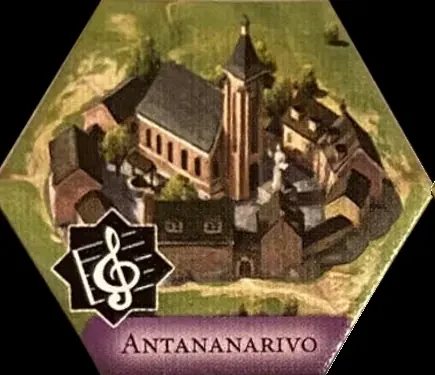
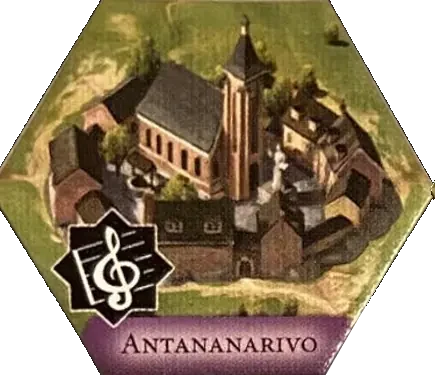
Civ New Dawn: the tiles are lying on the actual board
The map painted onto a flat dark rectangle. The printed board is in the pack —
aged parchment with the compass rose, the sea monsters and the title — so the
tiles now sit on it. It is pinned to the world rather than the viewport, so it
pans and zooms with the tiles the way a board does under real tiles, drawn wide
enough that a growing map never runs off its edge, with the rim sunk into the
dark so it reads as a board on a table. Each placed tile throws a shadow onto
it, filled before the clip goes on so the clip cannot cut its own shadow off.

That exposed something the tokens had been hiding: several of the extracted
pieces carry no alpha at all. The reinforced control token is a disc on solid
white, the districts sit on a rectangle of grey stone, the fortress on black,
and two of the six city-state atlases have no transparency either — so every
one of them was painting a rectangle over the tile underneath. The build tool
cuts them out now, flooding in from the four corners so only background
connected to an edge is cleared and a highlight inside a token keeps its
opacity, and it leaves a token alone when its corners disagree rather than
eating into the art. Drawing is clipped to the space as well, so a token can
never spill past the hex it belongs to whatever its file looks like.

diff --git a/apps/civ-new-dawn-v2/assets/art-data.js b/apps/civ-new-dawn-v2/assets/art-data.js
@@ -608,57 +608,57 @@ window.CivArtData = {
  },
  "control": {
   "blue": {
-   "reinforced": "other-images/control-blue__image-back__ugc-1994562021176696478__b24449476890bf88.webp",
+   "reinforced": "tokens/derived/cut-control-blue__image-back__ugc-1994562021176696478__b24449476890bf88.webp",
    "plain": "other-images/control-blue__image-face__ugc-1994562021176696398__23fd4a296c3b4060.webp"
   },
   "green": {
    "reinforced": "other-images/control-green__image-back__ugc-1994562021176703662__447aa0f168cd8fc2.webp",
-   "plain": "other-images/control-green__image-face__ugc-1994562021176703569__de486a2df2999f3e.webp"
+   "plain": "tokens/derived/cut-control-green__image-face__ugc-1994562021176703569__de486a2df2999f3e.webp"
   },
   "orange": {
-   "reinforced": "other-images/control-orange__image-back__ugc-1994562021176703786__5ac2f6f3b2887ad2.webp",
+   "reinforced": "tokens/derived/cut-control-orange__image-back__ugc-1994562021176703786__5ac2f6f3b2887ad2.webp",
    "plain": "other-images/control-orange__image-face__ugc-1994562021176703731__de40a9db999cfb36.webp"
   },
   "red": {
-   "reinforced": "other-images/control-red__image-back__ugc-1994562021176703452__50a5c8462fbf8982.webp",
+   "reinforced": "tokens/derived/cut-control-red__image-back__ugc-1994562021176703452__50a5c8462fbf8982.webp",
    "plain": "other-images/control-red__image-face__ugc-1994562021176703344__337f8cb60a4a8b8b.webp"
   }
  },
  "district": {
   "green": {
-   "theater": "tokens/district__image-face__ugc-1658972912262965312__e167614163a81db2.webp",
-   "campus": "tokens/district__image-face__ugc-1658972912262993062__b97555849f832ab1.webp",
-   "industrial": "tokens/district__image-face__ugc-1658972912262994405__d8ca1e39d96d5572.webp",
+   "theater": "tokens/derived/cut-district__image-face__ugc-1658972912262965312__e167614163a81db2.webp",
+   "campus": "tokens/derived/cut-district__image-face__ugc-1658972912262993062__b97555849f832ab1.webp",
+   "industrial": "tokens/derived/cut-district__image-face__ugc-1658972912262994405__d8ca1e39d96d5572.webp",
    "trade": "tokens/district__image-face__ugc-1658972912262995631__3edba0d5f7032d51.webp",
    "encampment": "tokens/district__image-face__ugc-1658972912262997563__b944caf42c3377f2.webp"
   },
   "blue": {
-   "theater": "tokens/district__image-face__ugc-1658972912263026893__ed22eb2515f51ab0.webp",
-   "campus": "tokens/district__image-face__ugc-1658972912263027991__f48103659c87733a.webp",
+   "theater": "tokens/derived/cut-district__image-face__ugc-1658972912263026893__ed22eb2515f51ab0.webp",
+   "campus": "tokens/derived/cut-district__image-face__ugc-1658972912263027991__f48103659c87733a.webp",
    "industrial": "tokens/district__image-face__ugc-1658972912263031384__ca36d28b09bdbe21.webp",
    "trade": "tokens/district__image-face__ugc-1658972912263033296__547326f730c6a096.webp",
    "encampment": "tokens/district__image-face__ugc-1658972912263034593__da14b7f535748b77.webp"
   },
   "orange": {
-   "theater": "tokens/district__image-face__ugc-1658972912263059284__5bba85309b4ea409.webp",
-   "campus": "tokens/district__image-face__ugc-1658972912263062892__a667677879b01614.webp",
-   "industrial": "tokens/district__image-face__ugc-1658972912263065796__1853b00ff24b77b6.webp",
-   "trade": "tokens/district__image-face__ugc-1658972912263067451__4980b98555cb1adc.webp",
-   "encampment": "tokens/district__image-face__ugc-1658972912263069639__7abb10a8e860264f.webp"
+   "theater": "tokens/derived/cut-district__image-face__ugc-1658972912263059284__5bba85309b4ea409.webp",
+   "campus": "tokens/derived/cut-district__image-face__ugc-1658972912263062892__a667677879b01614.webp",
+   "industrial": "tokens/derived/cut-district__image-face__ugc-1658972912263065796__1853b00ff24b77b6.webp",
+   "trade": "tokens/derived/cut-district__image-face__ugc-1658972912263067451__4980b98555cb1adc.webp",
+   "encampment": "tokens/derived/cut-district__image-face__ugc-1658972912263069639__7abb10a8e860264f.webp"
   },
   "red": {
-   "theater": "tokens/district__image-face__ugc-1658972912263091935__e743e563e246ab93.webp",
-   "campus": "tokens/district__image-face__ugc-1658972912263093151__9f3d454bcf510217.webp",
-   "industrial": "tokens/district__image-face__ugc-1658972912263094819__b413ed91ffc6b6f3.webp",
-   "trade": "tokens/district__image-face__ugc-1658972912263095901__937645a2a71b301b.webp",
-   "encampment": "tokens/district__image-face__ugc-1658972912263097213__c2d0639bdf680a00.webp"
+   "theater": "tokens/derived/cut-district__image-face__ugc-1658972912263091935__e743e563e246ab93.webp",
+   "campus": "tokens/derived/cut-district__image-face__ugc-1658972912263093151__9f3d454bcf510217.webp",
+   "industrial": "tokens/derived/cut-district__image-face__ugc-1658972912263094819__b413ed91ffc6b6f3.webp",
+   "trade": "tokens/derived/cut-district__image-face__ugc-1658972912263095901__937645a2a71b301b.webp",
+   "encampment": "tokens/derived/cut-district__image-face__ugc-1658972912263097213__c2d0639bdf680a00.webp"
   },
   "purple": {
-   "theater": "tokens/district__image-face__ugc-1658972912263121347__1e99c0de853aa561.webp",
+   "theater": "tokens/derived/cut-district__image-face__ugc-1658972912263121347__1e99c0de853aa561.webp",
    "campus": "tokens/district__image-face__ugc-1658972912263123018__29d3d03fff54e7f1.webp",
-   "industrial": "tokens/district__image-face__ugc-1658972912263125339__0727e48a2380e00f.webp",
-   "trade": "tokens/district__image-face__ugc-1658972912263126541__75799058cdf7b0c5.webp",
-   "encampment": "tokens/district__image-face__ugc-1658972912263127743__269d9baf4feacf01.webp"
+   "industrial": "tokens/derived/cut-district__image-face__ugc-1658972912263125339__0727e48a2380e00f.webp",
+   "trade": "tokens/derived/cut-district__image-face__ugc-1658972912263126541__75799058cdf7b0c5.webp",
+   "encampment": "tokens/derived/cut-district__image-face__ugc-1658972912263127743__269d9baf4feacf01.webp"
   }
  },
  "dial": {
@@ -711,7 +711,7 @@ window.CivArtData = {
  },
  "ibrahim": "cards/focus/deck-201-card-00__deck-201-cell-00__6b20af35a0e9c3cc.webp",
  "barbDirection": "tokens/asset__image-face__ugc-1994562021176697101__c77618bfc8a9d19b.webp",
- "fort": "tokens/fort__image-face__ugc-1685995054105782372__02e783edfb48e3f4.webp",
+ "fort": "tokens/derived/cut-fort__image-face__ugc-1685995054105782372__02e783edfb48e3f4.webp",
  "eventTracker": "tokens/event-tracker__image-face__ugc-1994562021176696876__f63e2bbadcc73eaf.webp",
  "boards": [
   "boards/asset__image-face__ugc-1695028978276055426__a5d9309776ab5359.webp",

diff --git a/apps/civ-new-dawn-v2/ui.js b/apps/civ-new-dawn-v2/ui.js
@@ -31,6 +31,7 @@ const UI = (() => {
   // terrain — which is the same terrain, so nothing about play changes.
   let tileArt = true;
   let pieceArt = true;
+  let tableArt = true;
 
   const TERRAIN_COLORS = {
     grass: '#6faa3f', hill: '#c8993a', forest: '#1d6650',
@@ -505,6 +506,7 @@ const UI = (() => {
     ctx.clearRect(0, 0, cw, ch);
     ctx.fillStyle = "#111122";
     ctx.fillRect(0, 0, cw, ch);
+    drawTable(cw, ch);
 
     const hexes = state.map.hexes;
 
@@ -780,6 +782,22 @@ const UI = (() => {
       const m = fitAffine(src, dst);
       if (!m) return;
 
+      // A tile is a piece of card lying on the board, so it throws a shadow.
+      // This has to be filled before the clip goes on, or the clip would cut
+      // the shadow off at the same edge it is supposed to fall outside of.
+      ctx.save();
+      ctx.beginPath();
+      for (const [, h] of cells) {
+        const p = axialToPixel(h.q, h.r);
+        hexSubPath(p.x, p.y, HEX_SIZE + 0.6);
+      }
+      ctx.shadowColor = "rgba(0,0,0,0.5)";
+      ctx.shadowBlur = HEX_SIZE * 0.28;
+      ctx.shadowOffsetY = HEX_SIZE * 0.1;
+      ctx.fillStyle = "#0b0d14";
+      ctx.fill();
+      ctx.restore();
+
       ctx.save();
       ctx.beginPath();
       for (const [, h] of cells) {
@@ -956,6 +974,37 @@ const UI = (() => {
     return `<div class="cface-onboard" title="${home} of ${list.length} still on this card">${pips}</div>`;
   }
 
+  // The board the tiles are laid on: the printed parchment with its compass
+  // rose and sea monsters. It is pinned to the world, not the viewport, so it
+  // pans and zooms with the tiles the way a real board does under real tiles,
+  // and it is drawn large enough that the map never runs off the edge of it.
+  function drawTable(cw, ch) {
+    if (!tableArt || !window.CivCardArt) return;
+    const img = tokenImage(CivCardArt.board(0));
+    if (!img || !img.complete || !img.naturalWidth) return;
+    const origin = axialToPixel(0, 0);
+    // Wide enough for the biggest board the tile stack can build, so growing
+    // the map never exposes a seam.
+    const span = HEX_SIZE * 30;
+    ctx.save();
+    ctx.globalAlpha = 0.88;
+    ctx.drawImage(img, origin.x - span / 2, origin.y - span / 2, span, span);
+    // Take the parchment down a stop. At full strength it is brighter than the
+    // tiles lying on it, which reads as the board floating above them.
+    ctx.globalAlpha = 1;
+    ctx.fillStyle = "rgba(24,22,32,0.34)";
+    ctx.fillRect(origin.x - span / 2, origin.y - span / 2, span, span);
+    // Sink the edges into the dark so the parchment reads as a board on a
+    // table rather than a rectangle pasted over the background.
+    const fade = ctx.createRadialGradient(origin.x, origin.y, span * 0.30,
+                                          origin.x, origin.y, span * 0.52);
+    fade.addColorStop(0, "rgba(17,17,34,0)");
+    fade.addColorStop(1, "rgba(17,17,34,1)");
+    ctx.fillStyle = fade;
+    ctx.fillRect(origin.x - span / 2, origin.y - span / 2, span, span);
+    ctx.restore();
+  }
+
   // Loaded token art, keyed by URL. A miss starts the load and returns null;
   // the board redraws when it arrives, so a slow first paint costs a frame,
   // not a missing piece. A failed load is remembered as null so a broken path
@@ -975,6 +1024,11 @@ const UI = (() => {
   // Draw a round or hex token centred on a space, at a size given as a
   // fraction of the hex. Returns false when the art is not there yet, so every
   // caller can fall back to the shape it used to draw.
+  //
+  // Everything is clipped to the space it sits in. Several of the extracted
+  // tokens are hexes photographed on a black rectangle rather than cut out —
+  // the fortress is one — and without the clip those corners paint over the
+  // tile underneath.
   function drawToken(url, cx, cy, frac, opts) {
     const img = tokenImage(url);
     if (!img || !img.complete || !img.naturalWidth) return false;
@@ -982,6 +1036,9 @@ const UI = (() => {
     const w = HEX_SIZE * 2 * frac;
     const hgt = w * (img.naturalHeight / img.naturalWidth);
     ctx.save();
+    ctx.beginPath();
+    hexSubPath(cx, cy, HEX_SIZE);
+    ctx.clip();
     if (o.alpha !== undefined) ctx.globalAlpha = o.alpha;
     if (o.shadow) {
       ctx.shadowColor = "rgba(0,0,0,0.55)";

diff --git a/apps/civ-new-dawn-v2/tools/build-art-manifest.py b/apps/civ-new-dawn-v2/tools/build-art-manifest.py
@@ -327,6 +327,75 @@ def build_wonder_tokens():
     return out
 
 
+def clear_flat_background(im, tol=26):
+    """Flood the flat background in from the four corners and trim.
+
+    Only pixels connected to an edge are cleared, so a white highlight inside
+    the token keeps its opacity. Returns None when the corners disagree — a
+    token photographed against a busy backdrop is left alone rather than eaten
+    into.
+    """
+    w, h = im.size
+    px = im.load()
+    corners = [px[0, 0], px[w - 1, 0], px[0, h - 1], px[w - 1, h - 1]]
+    r0, g0, b0 = corners[0][:3]
+    for c in corners[1:]:
+        if abs(c[0] - r0) > tol or abs(c[1] - g0) > tol or abs(c[2] - b0) > tol:
+            return None
+
+    seen = bytearray(w * h)
+    stack = [(0, 0), (w - 1, 0), (0, h - 1), (w - 1, h - 1)]
+    while stack:
+        x, y = stack.pop()
+        if x < 0 or y < 0 or x >= w or y >= h:
+            continue
+        i = y * w + x
+        if seen[i]:
+            continue
+        r, g, b, a = px[x, y]
+        if a and (abs(r - r0) > tol or abs(g - g0) > tol or abs(b - b0) > tol):
+            continue
+        seen[i] = 1
+        px[x, y] = (r, g, b, 0)
+        stack.extend(((x + 1, y), (x - 1, y), (x, y + 1), (x, y - 1)))
+
+    box = im.getbbox()
+    return im.crop(box) if box else im
+
+
+def cutout(rel_path, tol=26):
+    """Make a token's flat background transparent, and cache the result.
+
+    Some of the extracted tokens carry their alpha and some do not: the plain
+    control token is cut out, its reinforced back is the same disc on solid
+    white, and the districts sit on a rectangle of grey stone. Drawn as they
+    are, those rectangles paint over the tile underneath.
+
+    The background is found by flooding in from the four corners, so only pixels
+    connected to an edge are cleared — a white highlight inside the token keeps
+    its opacity. Returns the original path unchanged when the file already has
+    alpha, or when Pillow is not installed.
+    """
+    try:
+        from PIL import Image
+    except ImportError:
+        return rel_path
+
+    src = os.path.join(PACK, *rel_path.split("/"))
+    im = Image.open(src)
+    if im.mode in ("RGBA", "LA") or "transparency" in im.info:
+        return rel_path
+
+    im = clear_flat_background(im.convert("RGBA"), tol)
+    if im is None:
+        return rel_path
+    out_dir = os.path.join(PACK, "tokens", "derived")
+    os.makedirs(out_dir, exist_ok=True)
+    name = "cut-" + os.path.basename(rel_path)
+    im.save(os.path.join(out_dir, name), "WEBP", quality=90)
+    return rel("tokens/derived", name)
+
+
 def slice_city_state_tokens():
     """Cut the six two-up atlases into twelve single tokens."""
     try:
@@ -345,11 +414,11 @@ def slice_city_state_tokens():
         for name, box in ((left, (0, 0, half, im.height)),
                           (right, (half, 0, im.width, im.height))):
             crop = im.crop(box)
-            # The atlases are padded; trim to what is actually drawn so the
-            # token can be centred on a hex without guessing its margins.
-            bbox = crop.getbbox()
-            if bbox:
-                crop = crop.crop(bbox)
+            # Two of the six atlases carry no alpha at all — the tokens sit on
+            # flat black or flat white — so the same flood that cuts out the
+            # control tokens runs here, and the trim comes with it.
+            cut = clear_flat_background(crop)
+            crop = cut if cut is not None else crop.crop(crop.getbbox() or (0, 0, crop.width, crop.height))
             out_name = f"cs-{slug(name)}.webp"
             crop.save(os.path.join(out_dir, out_name), "WEBP", quality=88)
             made[name] = rel("tokens/derived", out_name)
@@ -368,13 +437,13 @@ def main():
         name = os.path.basename(path)
         color = name.split("__")[0].split("-")[1]
         side = "plain" if "image-face" in name else "reinforced"
-        control.setdefault(color, {})[side] = path
+        control.setdefault(color, {})[side] = cutout(path)
 
     faces = listing("tokens", r"^district__image-face")
     if len(faces) != len(COLORS) * len(DISTRICT_ORDER):
         raise SystemExit(f"districts: expected {len(COLORS) * len(DISTRICT_ORDER)}, got {len(faces)}")
     for i, path in enumerate(faces):
-        district.setdefault(COLORS[i // len(DISTRICT_ORDER)], {})[DISTRICT_ORDER[i % len(DISTRICT_ORDER)]] = path
+        district.setdefault(COLORS[i // len(DISTRICT_ORDER)], {})[DISTRICT_ORDER[i % len(DISTRICT_ORDER)]] = cutout(path)
 
     for color, path in zip_exact(listing("tokens", r"^science"), DIAL_COLORS, "tech dials"):
         dial[color] = path
@@ -389,14 +458,14 @@ def main():
     for kind, path in zip_exact(listing("tokens", r"^gov"), GOVERNMENTS, "government tokens"):
         gov[kind] = path
     for letter, path in zip_exact(listing("tokens", r"^barb"), BARBARIANS, "barbarian tokens"):
-        barb[letter] = path
+        barb[letter] = cutout(path)
 
     natural, resource = {}, {}
     res_files = []
     for pat in (r"^nat-wonder", r"^diamond", r"^marble", r"^mercury", r"^oil"):
         res_files += listing("tokens", pat)
     for (kind, name), path in zip_exact(res_files, RESOURCE_GROUP, "resource tokens"):
-        (natural if kind == "nw" else resource)[name] = path
+        (natural if kind == "nw" else resource)[name] = cutout(path)
 
     diplomacy = {}
     for (color, kind), path in zip_exact(listing("cards/diplomacy"), DIPLOMACY, "diplomacy cards"):
@@ -431,7 +500,7 @@ def main():
         # a turn. It is a deck of one, so there is nothing to disambiguate.
         "ibrahim": (listing("cards/focus", r"^deck-201-card-00") or [None])[0],
         "barbDirection": barb_direction,
-        "fort": (listing("tokens", r"^fort") or [None])[0],
+        "fort": cutout((listing("tokens", r"^fort") or [None])[0]),
         "eventTracker": (listing("tokens", r"^event-tracker") or [None])[0],
         "boards": listing("boards"),
     }
